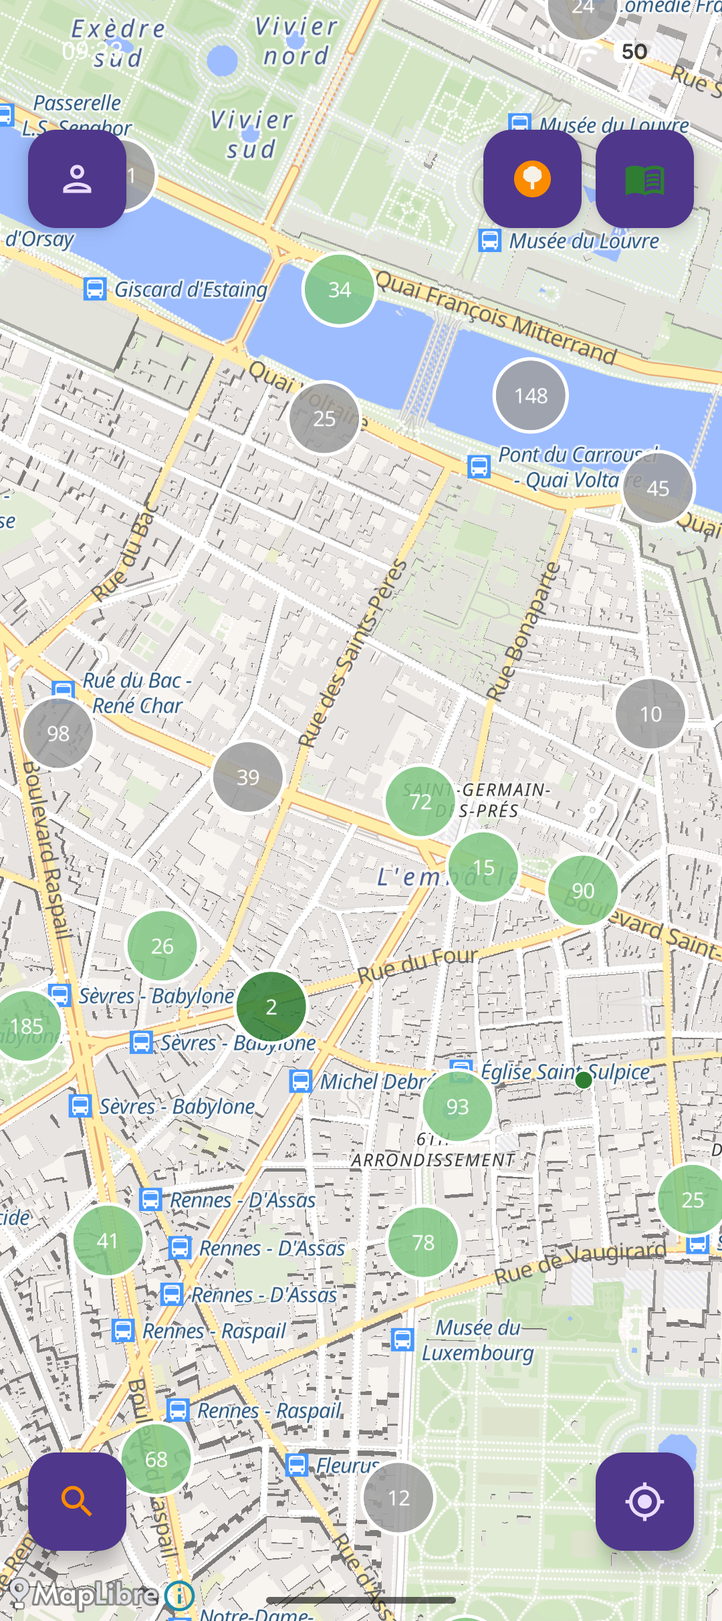
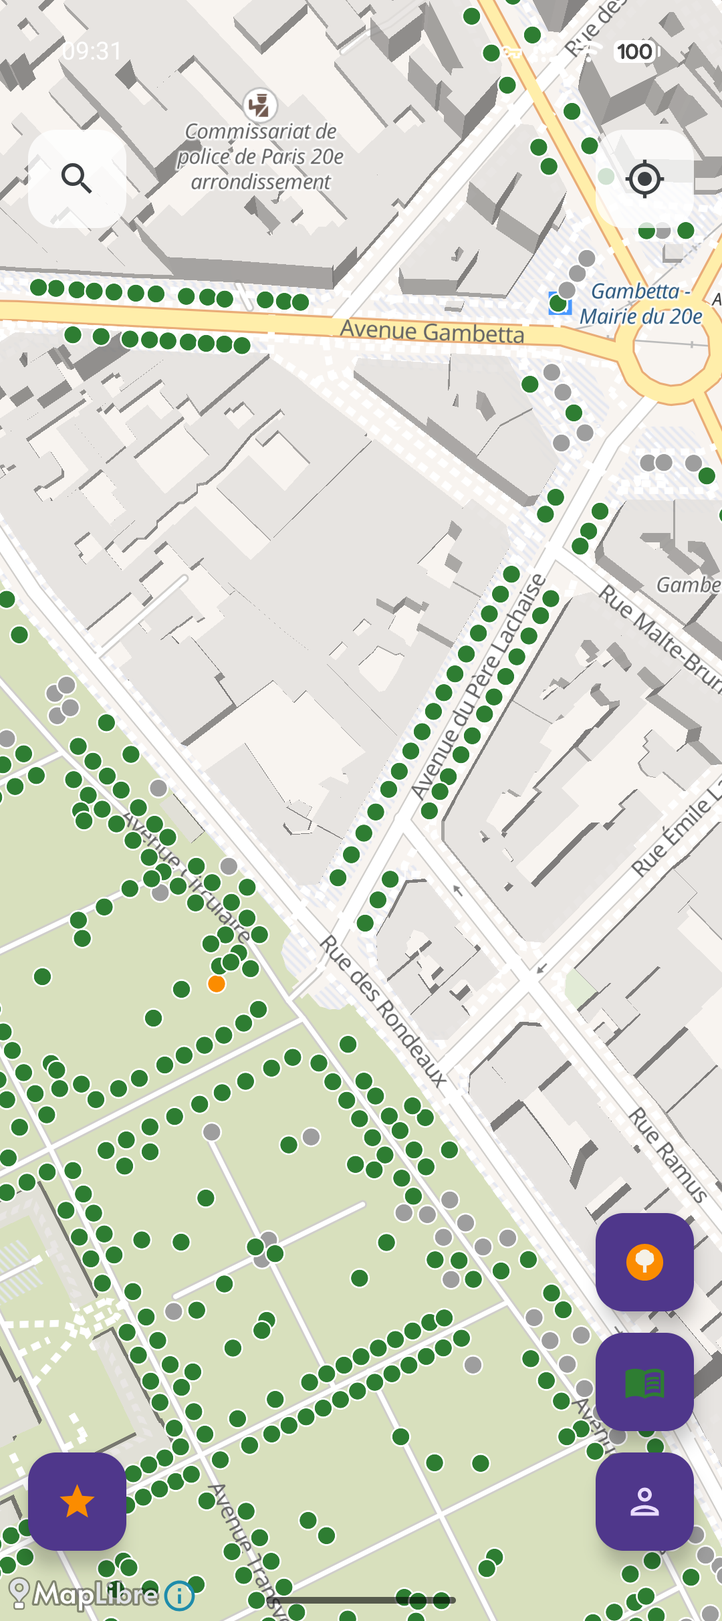
Boussole S7 — Clôture cycle v1.4.0
S7 finalise le cycle Boussole en trois axes.

**Detekt** (3 issues nouvelles + rebaseline ciblé) : extract
`LazyListScope.searchSection(...)` dans `UniversalSearchSheet`
(LongMethod 102 → 76). `SearchData.build()` passe de 3 boucles
`for + buildList + continue` à des chaînes `filter().map().sortedXxx()`
(plus de LoopWithTooManyJumpStatements). `parseArrQuery` refactoré
en cascade `?:` (7 returns → 2). Rebaseline silencieux des 3 IDs
MapScreen suite au signature drift `onGenreClick` ajouté en S2.
Baseline reste pile à 9, DoD ≤ 9 respectée.

**README** : 3 → 6 screenshots (carte, arboretum, espèce,
remarquables, profil, onboarding conservé). Ancien
`03-fiche-arbre.png` retiré.

**Rotation cycle Boussole → v1.4.0** : `versionCode` 13002 →
14000, `versionName` 1.3.2 → 1.4.0. `CHANGELOG.md` promotion
`[Non publié]` → `[1.4.0]` avec rédaction complète des sections
Ajouté/Modifié/Corrigé pour S1-S6 + polish post-test device + S7.
`ROADMAP.md` compresse le cycle en tête de « Cycles livrés
post-1.0 » et laisse un placeholder « Cycle en cours » (Variantes
volontairement non dépilé). `BACKLOG.md` purge les 9 items
`[→Boussole]` livrés ; item « fallback espèces sans Wikipedia »
sorti du cycle et remonté en `[creuser]` avec audit chiffré
(254/784 espèces = 32 % sans summary, mais 7 778/204 364 arbres
= 3.8 % — fallback gratuit dispo via genre-info.summary).

**Build** : ajout `lint { disable += "NullSafeMutableLiveData" }`
[…]

diff --git a/app/src/main/java/app/arbre/ui/map/SearchData.kt b/app/src/main/java/app/arbre/ui/map/SearchData.kt
@@ -51,53 +51,46 @@ fun SearchData.Companion.build(
     arrIndex: ArrSpeciesIndex,
     captured: Set<Int>,
 ): SearchData {
-    val species = buildList {
-        for (entry in speciesIndex.entries()) {
-            if (!entry.isActive) continue
-            if (entry.index !in captured) continue
+    val species = speciesIndex.entries()
+        .filter { it.isActive && it.index in captured }
+        .map { entry ->
             val display = entry.displayNomCommun
             val latin = entry.displayName
-            add(
-                SpeciesSearchItem(
-                    sk = entry.index,
-                    display = display,
-                    latin = latin,
-                    haystack = normalizeQuery("$display $latin"),
-                )
+            SpeciesSearchItem(
+                sk = entry.index,
+                display = display,
+                latin = latin,
+                haystack = normalizeQuery("$display $latin"),
             )
         }
-    }.sortedWith(compareBy({ it.display.lowercase() }, { it.sk }))
+        .sortedWith(compareBy({ it.display.lowercase() }, { it.sk }))
 
-    val genres = buildList {
-        for (g in speciesIndex.allGenres()) {
-            if (!speciesIndex.genreHasAnyCapture(g, captured)) continue
+    val genres = speciesIndex.allGenres()
+        .filter { speciesIndex.genreHasAnyCapture(it, captured) }
+        .map { g ->
             val nomFr = genreInfo.get(g)?.nomFr
             val display = if (nomFr != null) "$g — $nomFr" else g
-            add(
-                GenreSearchItem(
-                    genre = g,
-                    display = display,
-                    haystack = normalizeQuery("$g ${nomFr.orEmpty()}"),
-                )
+            GenreSearchItem(
+                genre = g,
+                display = display,
+                haystack = normalizeQuery("$g ${nomFr.orEmpty()}"),
             )
         }
-    }.sortedBy { it.display.lowercase() }
+        .sortedBy { it.display.lowercase() }
 
-    val arrs = buildList {
-        for (key in arrIndex.keys) {
-            val centroid = arrIndex.centroidOf(key) ?: continue
+    val arrs = arrIndex.keys
+        .mapNotNull { key ->
+            val centroid = arrIndex.centroidOf(key) ?: return@mapNotNull null
             val label = key.label()
-            add(
-                ArrSearchItem(
-                    key = key,
-                    label = label,
-                    lon = centroid.first,
-                    lat = centroid.second,
-                    haystack = normalizeQuery(label),
-                )
+            ArrSearchItem(
+                key = key,
+                label = label,
+                lon = centroid.first,
+                lat = centroid.second,
+                haystack = normalizeQuery(label),
             )
         }
-    }.sortedBy { it.key.sortKey() }
+        .sortedBy { it.key.sortKey() }
 
     return SearchData(species = species, genres = genres, arrs = arrs)
 }
@@ -136,17 +129,15 @@ private val ZIPCODE = Regex("^750(\\d{2})$")
 fun parseArrQuery(query: String): ArrKey? {
     val q = normalizeQuery(query)
     if (q.isEmpty()) return null
-
-    PARIS_NUM.matchEntire(q)?.let { m ->
-        val n = m.groupValues[1].toIntOrNull() ?: return@let
-        if (n in 1..20) return ArrKey.Paris(n)
-    }
-    ZIPCODE.matchEntire(q)?.let { m ->
-        val n = m.groupValues[1].toIntOrNull() ?: return@let
-        if (n in 1..20) return ArrKey.Paris(n)
-    }
-    ORDINALS_FR[q]?.let { return ArrKey.Paris(it) }
-    if ("vincennes" in q) return ArrKey.BoisVincennes
-    if ("boulogne" in q) return ArrKey.BoisBoulogne
-    return null
+    val numericArr = (PARIS_NUM.matchEntire(q) ?: ZIPCODE.matchEntire(q))
+        ?.groupValues?.get(1)
+        ?.toIntOrNull()
+        ?.takeIf { it in 1..20 }
+    return numericArr?.let { ArrKey.Paris(it) }
+        ?: ORDINALS_FR[q]?.let { ArrKey.Paris(it) }
+        ?: when {
+            "vincennes" in q -> ArrKey.BoisVincennes
+            "boulogne" in q -> ArrKey.BoisBoulogne
+            else -> null
+        }
 }

diff --git a/app/src/main/java/app/arbre/ui/map/UniversalSearchSheet.kt b/app/src/main/java/app/arbre/ui/map/UniversalSearchSheet.kt
@@ -8,6 +8,7 @@ import androidx.compose.foundation.layout.fillMaxSize
 import androidx.compose.foundation.layout.fillMaxWidth
 import androidx.compose.foundation.layout.padding
 import androidx.compose.foundation.lazy.LazyColumn
+import androidx.compose.foundation.lazy.LazyListScope
 import androidx.compose.foundation.lazy.items
 import androidx.compose.foundation.text.KeyboardOptions
 import androidx.compose.material.icons.Icons
@@ -112,32 +113,14 @@ fun UniversalSearchSheet(
                     .padding(top = 12.dp)
                     .weight(1f),
             ) {
-                if (filteredSpecies.isNotEmpty()) {
-                    stickyHeader { SectionHeader("Espèces", filteredSpecies.size) }
-                    items(
-                        items = filteredSpecies,
-                        key = { "sp-${it.sk}" },
-                    ) { item ->
-                        SpeciesRow(item, onClick = { onSpeciesTap(item.sk) })
-                    }
+                searchSection("Espèces", filteredSpecies, key = { "sp-${it.sk}" }) {
+                    SpeciesRow(it, onClick = { onSpeciesTap(it.sk) })
                 }
-                if (filteredGenres.isNotEmpty()) {
-                    stickyHeader { SectionHeader("Genres", filteredGenres.size) }
-                    items(
-                        items = filteredGenres,
-                        key = { "g-${it.genre}" },
-                    ) { item ->
-                        GenreRow(item, onClick = { onGenreTap(item.genre) })
-                    }
+                searchSection("Genres", filteredGenres, key = { "g-${it.genre}" }) {
+                    GenreRow(it, onClick = { onGenreTap(it.genre) })
                 }
-                if (filteredArrs.isNotEmpty()) {
-                    stickyHeader { SectionHeader("Arrondissements", filteredArrs.size) }
-                    items(
-                        items = filteredArrs,
-                        key = { "a-${it.label}" },
-                    ) { item ->
-                        ArrRow(item, onClick = { onArrTap(item) })
-                    }
+                searchSection("Arrondissements", filteredArrs, key = { "a-${it.label}" }) {
+                    ArrRow(it, onClick = { onArrTap(it) })
                 }
                 if (filteredSpecies.isEmpty() && filteredGenres.isEmpty() && filteredArrs.isEmpty()) {
                     item {
@@ -166,6 +149,18 @@ fun UniversalSearchSheet(
     LaunchedEffect(Unit) {
         focusRequester.requestFocus()
     }
+}
+
+@OptIn(ExperimentalFoundationApi::class)
+private fun <T : Any> LazyListScope.searchSection(
+    label: String,
+    items: List<T>,
+    key: (T) -> Any,
+    row: @Composable (T) -> Unit,
+) {
+    if (items.isEmpty()) return
+    stickyHeader { SectionHeader(label, items.size) }
+    items(items = items, key = key) { row(it) }
 }
 
 @Composable

diff --git a/ROADMAP.md b/ROADMAP.md
@@ -4,46 +4,7 @@ App perso, pas de calendrier engageant. Single-player, stockage local strict —
 
 ## Cycle en cours
 
-### Boussole — viseur `v1.4.0`
-
-Cycle ouvert le 2026-05-14. Thème : **navigation + lisibilité de la progression**. Un correctif structurel (le critère « arrondissement complété » est aujourd'hui injouable), trois apports inspirés du PWA livré par un admirateur (recherche universelle, réorg FAB, bar chart Profile), une extension du système de badges (paliers Pokédex), et du polish + side-tasks. Aucune migration Room, mais régénération `arr-species.json` (champ `remarquables` + centroids par arr).
-
-Items détaillés dans `BACKLOG.md` (section « Cycle Boussole »).
-
-**S1 — Modèle « arrondissement complété » sur remarquables (structurel)** — Le dénominateur actuel = *toutes* les espèces de l'arr (incluant `sp.`) rend la complétion quasi-impossible. On bascule sur les *arbres remarquables* de l'arr. Conserver « Arrondissements visités » = n'importe quel capture. Touche `tools/build_dataset.py` (ajouter `remarquables` dans `arr-species.json`), `ArrSpeciesIndex.remarquablesOf(arr)`, `BadgeEvaluator.evaluateFamilierArr` (l.78-98), description badge « Familier du Xe » (`Badge.kt` l.169-182), barre `ProgressionCard` (`ProfileScreen.kt` l.494-500), `BadgeEvaluatorTest`. À faire en premier : les sprints S2/S5 dépendent du dataset régénéré. **Voir aussi le bloc « Polish S1 affiné post-test device » plus bas.**
-
-**S2 — Réorganisation des FAB Map** — Layout validé :
-
-```
-┌──────────────────────┐
-│ 🔍              ⊙  │  top
-│                      │
-│         (carte)      │
-│                      │
-│                  🌳  │  bot-end
-│                  📖  │  pile [Remarq, Arbo, Profil]
-│ ★          ●     👤  │
-└──────────────────────┘
-  ★=Chasse        ●=HuntPanel
-```
-
-`MapScreen.kt:717-794`. Conserver `bottomShiftForHunt` et `awaitingFirstFix` pulse (déplacés avec Localiser top-end). Vérifier non-chevauchement pile bottom-end / HuntPanel bottom-center. **🔍 Recherche** et **⊙ Localiser** rendus discrets (`containerColor = surfaceContainerHigh`, `contentColor = onSurfaceVariant`, taille 56 dp conservée — alignés sur la palette utilitaire de `HuntPanel`). Le FAB 🔍 est posé en stub (snackbar « Recherche : bientôt »), le wiring de la sheet arrive en S3.
-
-**S3 — Recherche universelle** — FAB loupe top-start (déjà posé en S2) → bottom-sheet 3 sections, **périmètre minimal** : espèces capturées (FR/latin), genres découverts, arrondissements (parseur `"1"`/`"01"`/`"1er"`/`"75001"`/`"premier"`). Tap espèce → `Routes.species(sk)` ; tap genre → `Routes.genre(...)` ; tap arrondissement → fly-to centroid + close. **Hors périmètre v1.4** : adresse précise, OpenData id, sheet récap arr. Pré-calculer les centroids arr côté Python ; étendre `Routes.MAP` avec query param `flyToArr` (analogue à `pulseArbreId`). Précharger le sheet content (cf. memo `feedback_compose_sheet`). Nouveau composable `ui/map/UniversalSearchSheet.kt`.
-
-**S4 — Bar chart Profile** — Card additionnelle **sous** `ProgressionCard` (ne pas remplacer les 7 barres). **Pencher** : 2 graphes séparés, hebdomadaires, fenêtre 12 semaines glissantes — graphe 1 = captures totales par semaine, graphe 2 = nouvelles découvertes d'espèces par semaine. Compose `Canvas` hand-rolled, zéro dépendance. Bucket par semaine ISO (`WeekFields.ISO`) depuis `CaptureDao.allCaptures()`. **À rediscuter au démarrage du sprint** : fenêtre exacte (8 / 12 / 16 sem), empilés ou tabs, condition de masquage si historique < 2 semaines, couleurs (or vs feuilleClaire).
-
-**S5 — Badges Pokédex progression** — 6 badges statiques binaires : `pokedex_10`, `pokedex_20`, `pokedex_50`, `pokedex_100`, `pokedex_200`, `pokedex_500`. Critère : avoir capturé **toutes** les espèces ayant `pokedexNumber ∈ [1..N]`. Le `pokedexNumber` est déjà calculé côté `build_dataset.py` (ordre décroissant de count, stable entre regénérations) et exposé via `SpeciesEntry.pokedexNumber`. Ajouter à `BadgeCatalog.ALL` ; brancher `evaluatePokedexRange(...)` dans `BadgeEvaluator` (utiliser `effectivelyCapturedSpecies` pour la propagation `sp.`) ; 6 icônes dans `BadgeIcons.kt` (variantes médaille graduée). Pas de migration.
-
-**S6 — Polish chapitres + tip erroné** — (a) Texte fixe « arrondissement » dans titres de chapitres Remarquables/Catalogue (1er-20ème, pas pour les 2 Bois) ; (b) compteur N/M à côté de ces titres (cohérence avec Arboretum par genre) ; (c) tip splash citant « 930 espèces » à corriger — recompter le périmètre exact, ajuster ou retirer.
-
-**Polish UX post-test device** (intercalé entre S6 et S7) — Trois correctifs UX émergés du parcours de validation device : (1) `UtilityFab` (Recherche + Localiser, top de la carte) passe en verre dépoli `White.copy(alpha = 0.78)` + icône asphalte, avec **toutes les élévations à 0** pour neutraliser le tonal overlay Material 3 (sinon mini-carré clair au centre, visible sur container translucide). Palette figée hors thème système car ces FAB survolent toujours la carte claire. (2) `UniversalSearchSheet` content force `fillMaxSize()` + `weight(1f)` sur la `LazyColumn` (au lieu de `heightIn(max = 520.dp)`) — le sheet adopte désormais toujours la hauteur plein écran, indépendamment de la taille du contenu et de la présence de l'IME (avant : ouverture à ~75 % puis re-cadrage à pleine hauteur quand le clavier montait). (3) Source `tools/splash-tips-static.json` alignée sur les compteurs courants (`934 / 784`) + retrait des deux tips supprimés en S6, pour qu'une régénération `build_dataset.py` ne ré-introduise pas la régression. Compromis assumé : auto-focus du champ de recherche = IME visible = 2 back-press pour fermer le sheet (1 ferme l'IME, 1 ferme le sheet), comportement Android natif universel.
-
-**Polish S1 affiné post-test device** — Le pivot S1 portait sur les *espèces* d'arbres remarquables (couverture par sk). Divergent du compteur `N / M` de RemarquablesScreen qui compte les arbres individuels — un 19e à 10/12 arbres pouvait débloquer le badge « Familier du 19e » dès lors que les 9 espèces uniques étaient couvertes. Bascule définitive sur les **ids d'arbres remarquables** : `arr-species.json` émet `remarquable_ids: [...idbase...]` à la place de `remarquables: [...sk...]`, `ArrSpeciesIndex` expose `remarquableArbreIdsOf(key): Set<Long>`, `BadgeEvaluator.evaluateFamilierArr` compare directement des `Set<Long>` (plus de propagation `effectivelyCapturedSpecies`). Aucune migration utilisateur — les badges injustement débloqués se referment au prochain mount du Profil.
-
-**S7 — Side-tasks de clôture** — (a) Revérifier la pertinence d'un texte fallback pour fiches espèces sans Wiki post-Catalogue 1.1.0 : audit `assets/species-info.json`, si ≤ 5% des espèces réellement capturables manquent de texte → fermer `[refusé]`, sinon proposer un fallback ; (b) Screenshots README de 3 à 6, couvrir les nouveaux écrans v1.4 (Map avec FAB Recherche, sheet Recherche, Profile avec bar charts) ; (c) Dette detekt accumulée par S2/S3 : 6 issues à traiter (3× MapScreen suite à l'ajout de `onGenreClick` qui décale la signature des entries baseliné, 1× UniversalSearchSheet `LongMethod`, 2× SearchData `ReturnCount` + `LoopWithTooManyJumpStatements`). Choix à faire : refactorer pour rentrer dans les seuils, ou rebaseliner en assumant la dérive (DoD cycle = `baseline ≤ 9`, rebaseline brut amènerait à 12).
-
-**Definition of done** : tests JVM verts (`BadgeEvaluatorTest` couvre nouveau critère arr + 6 paliers Pokédex), detekt baseline ≤ 9, build release signé local OK, smoke test device GrapheneOS (S1 à S6 visuels), backup/restore sanity check, entrée `CHANGELOG.md [1.4.0]` rédigée, tag `v1.4.0` poussé, rotation cycle Boussole → *Cycles livrés post-1.0*.
+_(à ouvrir — voir « Prochains cycles » ci-dessous pour les candidats)_
 
 ## Prochains cycles
 
@@ -54,6 +15,10 @@ Refonte Arboretum « états/variants ». La colonne `season` (devenue inerte par
 Inspiration : Dave the Diver / Pokédex enrichi. Re-capture du même arbre dans un état nouveau = upgrade visible de l'élément Arboretum, sans inflation artificielle. Migration `MIGRATION_4_5`, backup `schemaVersion = 3`. Badges variantes émergent naturellement. Items détaillés dans `BACKLOG.md`.
 
 ## Cycles livrés post-1.0
+
+### Boussole — `1.4.0` (2026-05-16)
+
+Cycle thématique **navigation + lisibilité de la progression**. Sept sprints + deux passes de polish device. Apports majeurs : Recherche universelle (FAB 🔍 + sheet 3 sections espèces/genres/arrondissements avec parseur ordinaux/zipcodes), histogrammes hebdomadaires Profil au long-press d'une barre `ProgressionCard` (pipeline pur Kotlin, fenêtre ISO bornée 16 sem), 6 badges Pokédex paliers 10/20/50/100/200/500 (libellés gradués), réorganisation FAB Map (🔍 top-start, ⊙ top-end, pile bot-end, ★ Chasse bot-start) en verre dépoli. Correctif structurel : « Familier d'arrondissement » bascule du dénominateur *espèces de l'arr* (injouable) vers les **ids d'arbres remarquables physiques** (aligné sur le compteur `N / M` du Catalogue) — itération en deux temps post-test device. Polish chapitres Remarquables/Catalogue (headerLabel `Xe arrondissement` + compteur `N / M`), splash tips réalignés `934 / 784`, screenshots README portés à 6. Clôture detekt : extract `LazyListScope.searchSection(...)`, refacto `SearchData.build()` en chaînes `filter().map()`, `parseArrQuery` 7 → 2 returns. Baseline reste à 9. Détails dans `CHANGELOG.md` `[1.4.0]`.
 
 ### Reproductibilité — `1.3.2` (2026-05-13)
 

diff --git a/CHANGELOG.md b/CHANGELOG.md
@@ -2,14 +2,36 @@
 
 Format basé sur [Keep a Changelog](https://keepachangelog.com/fr/1.1.0/). Versions [SemVer](https://semver.org/lang/fr/).
 
-## [Non publié] — Cycle Boussole
+## [1.4.0] — 2026-05-16
+
+Cycle *Boussole* — thème **navigation + lisibilité de la progression**. Sept sprints + deux passes de polish post-test device. Un correctif structurel (le critère « arrondissement complété » était injouable), trois apports inspirés du PWA livré par un admirateur (recherche universelle, réorg FAB Map, histogrammes Profil sur long-press), une extension du système de badges (6 paliers Pokédex), un polish chapitres + tips, et une clôture detekt + screenshots README. Aucune migration Room, régénération `arr-species.json` (ajout `remarquable_ids` + centroids par arr).
+
+### Ajouté
+
+- **Recherche universelle** (S3) : FAB loupe top-start sur la carte → `ModalBottomSheet` 3 sections (espèces capturées, genres découverts, 22 arrondissements). Tap espèce → fiche-espèce ; tap genre → fiche-genre ; tap arrondissement → fly-to centroïde z13 700 ms via `MapViewModel.pendingArrFlyTo` (pas de query param, pas de remount `MapScreen`, `lastCamera` préservée). Recherche insensible casse + accents (NFD + strip diacritiques + lowercase pré-cuit dans `SearchData`). `parseArrQuery` accepte chiffres, ordinaux abrégés (`1er`/`2e`/`4ème`), ordinaux français littéraux (`premier`/`deuxième`… `vingtième`), codes postaux `750NN`, et mots-clés `vincennes`/`boulogne`.
+- **Histogrammes Profil au long-press** (S4) : long-press sur une barre de `ProgressionCard` ouvre un `ModalBottomSheet` avec l'histogramme hebdomadaire des nouveautés liées à la métrique (7 barres graphables, fenêtre ISO adaptative bornée à 16 sem). Pipeline pur Kotlin (`ProgressionHistory.kt`, IsoWeek Europe/Paris, dispatch par metric ; les 6 métriques triviales bucketisent `min(ts) groupBy clé`, « Arbres déverrouillés » rejoue les captures via snapshots cumulatifs). Histogramme Canvas hand-rolled (`arbresColors.or`, semaine courante dimmer 0.5), tooltip-on-tap auto-dismiss 2,5 s.
+- **6 badges Pokédex binaires** (S5) : `pokedex_{10,20,50,100,200,500}`, catégorie Découverte. Palier N débloqué dès que toutes les espèces actives ayant `pokedexNumber ∈ [1..N]` sont capturées hors remarquables (alignement Catalogue/Arboretum par fréquence). Libellés gradués *Promeneur curieux → Apprenti botaniste → Botaniste → Herboriste → Naturaliste → Dendrologue*. Icône commune AutoMirrored `MenuBook` + seuil chiffré rendu sous l'icône via nouveau `BadgeVisual.VectorWithBadge`.
+- **Réorganisation FAB Map** (S2) : layout final = 🔍 Recherche top-start, ⊙ Localiser top-end, pile [Remarquables, Arboretum, Profil] bottom-end, ★ Chasse bottom-start. Recherche + Localiser passent en palette **verre dépoli** (`White.copy(alpha = 0.78)` + icône asphalte `Color(0xFF3C4043)`, palette figée hors thème car ces FAB survolent toujours la carte claire OpenFreeMap), élévations strictement à 0 sur tous les états pour neutraliser le tonal overlay Material 3.
+- **Polish chapitres Remarquables / Catalogue** (S6) : `ArrKey.headerLabel()` rend `"1er arrondissement"` / `"5e arrondissement"` sur les sticky headers (Bois et "Hors Paris" inchangés, `label()` court préservé). `ArrondissementHeader` passe en `Row` avec compteur `N / M` aligné droite (`bodyMedium` / `onSurfaceVariant`), cohérent avec `GenreChapterHeader` de l'Arboretum.
+- 6 nouveaux screenshots `docs/screenshots/0{1-6}-*.png` couvrent l'app dans son ensemble (onboarding, carte, arboretum, fiche-espèce, remarquables, profil). `README.md` mis à jour.
+- Splash tip `app.progress_history` (statique + asset embarqué + `docs/tips/index.html` régénéré) pour la découvrabilité des histogrammes.
+
+### Modifié
+
+- **Critère « Familier d'arrondissement » / « Arrondissements complétés »** (S1 + Polish S1 affiné post-test device) : le dénominateur passe de **toutes les espèces de l'arr** (50-150 par arr, de facto injouable) à **chaque arbre remarquable physique** de l'arr. Itération en deux temps : (1) S1 a basculé sur les *espèces* d'arbres remarquables (`remarquables: [...sk...]`), (2) Polish post-test a basculé sur les **ids d'arbres** (`remarquable_ids: [...idbase...]`) pour aligner sur le compteur `N / M` du Catalogue Remarquables qui, lui, compte des arbres individuels — sur le 19e (12 arbres = 9 espèces uniques), 10 captures débloquaient le badge alors que 2 arbres restaient à voir. `ArrSpeciesIndex.remarquableArbreIdsOf(key): Set<Long>` ; `BadgeEvaluator.evaluateFamilierArr` compare directement des `Set<Long>` d'ids, sans propagation espèce/genre. 2 arr sans aucun arbre remarquable (2e, 6e) exclus du dénominateur « Complétés » (20 au lieu de 22). « Visités » garde son dénominateur 22. Aucune migration utilisateur : les badges injustement débloqués se referment au prochain mount du Profil.
+- Splash tips compteurs alignés : `intro.species_count` 782 → 784, `app.catalogue` 930 / 782 → 934 / 784. Suppression de `player.species_progression` et `player.species_share` (placeholder `{speciesCount}` sans dénominateur stable, retrait plutôt que rafistolage). `tools/splash-tips-static.json` réaligné à la source pour qu'une régénération `build_dataset.py` ne ré-introduise pas la régression. 229 → 227 tips.
+- `UniversalSearchSheet.kt` : helper `LazyListScope.searchSection(label, items, key, row)` factorise les 3 blocs `stickyHeader { … }; items { … }` (Espèces/Genres/Arrondissements). Fonction principale passe de 102 à ~76 lignes.
+- `SearchData.kt` : `build()` remplace 3 boucles `for + buildList + continue` par des chaînes `filter().map().sortedXxx()`. `parseArrQuery` refactorée en chaîne `?:` (7 returns → 2), comportement strictement préservé.
+- `app/detekt-baseline.xml` : 3 IDs `MapScreen` mis à jour pour intégrer `onGenreClick: (String) -> Unit = {}` (signature drift S2). Baseline reste à 9 exactement, DoD `≤ 9` respectée.
 
 ### Corrigé
 
-- **Familier d'arrondissement / Arrondissements complétés** : le critère exigeait la couverture de toutes les *espèces* d'arbres remarquables de l'arr (pivot S1) — divergence avec le compteur `N / M` du Catalogue Remarquables qui, lui, compte des **arbres individuels**. Sur le 19e (12 arbres = 9 espèces uniques), 10 captures suffisaient à débloquer le badge alors que 2 arbres restaient à voir. Le critère bascule sur la **capture de chaque arbre remarquable physique** : `arr-species.json` émet désormais `remarquable_ids: [...idbase...]` à la place de `remarquables: [...sk...]` ; `BadgeEvaluator.evaluateFamilierArr` compare directement des `Set<Long>` d'ids, sans propagation espèce/genre. Effet de bord propre : la sur-permissivité `(Quercus, sp.)` → tout chêne (visible sur les 4e et 15e via `Tamarix sp.` / `Alnus sp.`) disparaît. Aucune migration utilisateur — les badges injustement débloqués se referment au prochain mount du Profil, ré-évalués en sortie d'écran.
-- **FAB Recherche / Localiser top de la carte** : le rendu `surfaceContainerHigh` thème-aware donnait deux pastilles gris quasi-noires sur la carte claire OpenFreeMap en thème dark (palette résolue contre le thème app, pas contre la chromie de la carte). Bascule sur du **verre dépoli** `White.copy(alpha = 0.78)` + icône asphalte `Color(0xFF3C4043)`, palette figée hors thème. Élévations strictement à 0 sur tous les états pour éviter le `surfaceColorAtElevation()` qui dessinait un mini-carré clair au centre du FAB par-dessus le container translucide.
-- **Sheet Recherche universelle plein écran systématique** : le sheet adoptait la hauteur de son contenu (`OutlinedTextField` + `LazyColumn` bornée à 520 dp), soit ~75 % de l'écran sur un téléphone moderne — perçu comme une « ouverture à 3/4 » avec un re-cadrage quand l'IME montait/redescendait. Le `Column` conteneur passe en `fillMaxSize()`, la `LazyColumn` en `weight(1f)` (suppression du `heightIn(max = 520.dp)`) : le sheet est désormais toujours plein écran, IME ou pas.
-- **Source `tools/splash-tips-static.json` désynchronisée** : trois tips citaient encore `930 / 782 espèces` (chiffres pré-`v1.3.2`) et deux tips supprimés en S6 (`player.species_progression`, `player.species_share`) étaient toujours dans la source — chaque régénération `build_dataset.py` ré-introduisait silencieusement la régression. Source réalignée sur `934 / 784` + tips retirés à la source.
+- **Sheet Recherche universelle plein écran systématique** (Polish S3 post-test device) : le sheet adoptait la hauteur de son contenu (`OutlinedTextField` + `LazyColumn` bornée à 520 dp), soit ~75 % de l'écran sur un téléphone moderne — perçu comme une « ouverture à 3/4 » avec un re-cadrage quand l'IME montait/redescendait. Le `Column` conteneur passe en `fillMaxSize()`, la `LazyColumn` en `weight(1f)` (suppression du `heightIn(max = 520.dp)`) : le sheet est désormais toujours plein écran, IME ou pas. Compromis assumé sur l'IME visible au mount = 2 back-press pour fermer (comportement Android natif universel).
+- **FAB Recherche / Localiser sur carte claire** (Polish S2 post-test device) : le rendu initial `surfaceContainerHigh` thème-aware donnait deux pastilles gris quasi-noires sur la carte claire OpenFreeMap en thème dark (palette résolue contre le thème app, pas contre la chromie de la carte). Bascule sur **verre dépoli** détaillée ci-dessus.
+
+### Privacy
+
+- Inchangé : 100 % local, aucune télémétrie, aucun service tiers au runtime.
 
 ## [1.3.2] — 2026-05-13
 

diff --git a/BACKLOG.md b/BACKLOG.md
@@ -15,20 +15,7 @@ Triage en lot au début de chaque cycle. Process complet dans `CLAUDE.md` (*Work
 
 ## À trier
 
-_(vide — items absorbés par le cycle Boussole le 2026-05-14)_
-
-## Cycle Boussole
-
-- [→Boussole] Pivoter barre « Arrondissements complétés » + badges `familier_arr_*` sur le dénominateur remarquables de l'arr (plus toutes les espèces). « Arrondissements visités » inchangé (n'importe quel capture). (user:moi, 2026-05-14)
-- [→Boussole] Recherche universelle, FAB loupe top-start → sheet 3 sections : espèces capturées (FR/latin), genres découverts, arrondissements (parseur `"1"`/`"01"`/`"1er"`/`"75001"`/`"premier"`). Tap → fly-to centroid pour arr / fiche pour espèce/genre. Hors périmètre : adresse précise, OpenData id, sheet récap arr. Centroids arr pré-calculés côté Python. (pwa:livraison-dev-externe, 2026-05-13 ; cadré 2026-05-14)
-- [→Boussole] Réorg FAB Map : top-start 🔍 Recherche, top-end ⊙ Localiser, bottom-end pile [Remarquables, Arboretum, Profil] (bas-en-haut), bottom-start ★ Chasse inchangé. (pwa:livraison-dev-externe, 2026-05-13 ; cadré 2026-05-14)
-- [→Boussole] Bar chart Profile : Card additionnelle sous `ProgressionCard` (pas en remplacement des 7 barres). Penchant à confirmer au démarrage : 2 graphes séparés hebdo, fenêtre 12 sem — captures totales + nouvelles découvertes d'espèces. (pwa:livraison-dev-externe, 2026-05-13 ; cadré 2026-05-14 ; à rediscuter en début de sprint)
-- [→Boussole] 6 badges Pokédex binaires `pokedex_{10,20,50,100,200,500}` : avoir capturé toutes les espèces ayant `pokedexNumber ∈ [1..N]`. (user:moi, 2026-05-14)
-- [→Boussole] Texte fixe « arrondissement » dans titres de chapitres Remarquables/Catalogue (1er-20ème, pas pour les Bois). (user:pote, 2026-05-14)
-- [→Boussole] Compteur N/M à côté des titres de chapitres Remarquables/Catalogue (cohérence Arboretum par genre). (user:pote, 2026-05-14)
-- [→Boussole] Fix tip splash citant « 930 espèces » — chiffre obsolète vs dataset actuel (784 identifiées / 934 catalogue / 204 genres / 217 264 arbres / 183 remarquables). Vérifier le périmètre exact à citer. (user:moi, 2026-05-14)
-- [→Boussole] Revérifier le besoin d'un texte fallback pour fiches espèces sans Wiki post-Catalogue 1.1.0. Si ≤ 5% des espèces capturables manquent → fermer `[refusé]`. (audit-B, 2026-05-06 ; rapatrié 2026-05-14)
-- [→Boussole] Étendre screenshots README de 3 à 6 (nouveau layout Map, sheet Recherche, Profile avec bar charts). (audit#17, 2026-05-06 ; rapatrié 2026-05-14)
+_(vide — cycle Boussole clos 2026-05-16, livré en v1.4.0)_
 
 ## Cycle Variantes
 
@@ -40,6 +27,7 @@ _(vide — items absorbés par le cycle Boussole le 2026-05-14)_
 
 ## À creuser
 
+- [creuser] Texte fallback pour fiches espèces sans Wikipedia. Audit S7 (2026-05-16) : **254/784 espèces identifiées (32 %) sans `summary`**, mais ne couvrent que **7 778/204 364 arbres (3.8 %)** — quasi exclusivement des hybrides/cultivars/sous-espèces (Tilia x europaea, Pinus nigra subsp. nigra, Gleditsia triacanthos f. Inermis, x Cupressocyparis leylandii…). Fallback gratuit dispo via `genre-info.json.summary` (texte Wikipedia du genre, déjà cuit). Lecture pondérée par arbres = sous le seuil ≤ 5 %, lecture par espèce = bien au-dessus — à trancher dans un cycle futur si la friction utilisateur devient sensible. (audit-B 2026-05-06 ; ré-audité 2026-05-16 hors-cycle Boussole)
 - [creuser] Quêtes hebdomadaires locales, opt-in, sans push (audit V2#3, 2026-05-06 ; déplacé depuis Endgame 2026-05-12 quand le cycle a été dissous)
 - [creuser] Résidu post-cycle Catalogue : 11 entrées résiduelles avec `nv == binôme nu` et count ≤ 2 (post-fil-rouge S10), botaniquement douteuses — `Ehretia macrophylla`, `Sophora flavescens`, `Betula occidentalis`, `Crataegus japonicum`, `Crataegus baccata`, `Celtis cerasifera`, `Carpinus carpinifolia`, `Phellodendron japonicum`, `Zanthoxylum bungei`, `Alnus formosana`, `Brucea javanica`. Peut-être réelles mais rares à Paris, peut-être saisies erronées. Demandent une recherche botanique pour trancher keep / rebinder (claude:audit-S6, 2026-05-11 ; réduit de 29→11 au S10)
 - [creuser] WelcomeScreen pas lu, intro depuis la carte (user:F&F + user:moi 2026-05-07 : pas prio mais à reconsidérer post-Photos)

diff --git a/README.md b/README.md
@@ -9,7 +9,10 @@ App Android pour partir à la chasse aux arbres remarquables de Paris, collectio
 <p align="center">
   <img src="docs/screenshots/01-onboarding.png" width="240" alt="Écran d'accueil"/>
   <img src="docs/screenshots/02-carte.png" width="240" alt="Carte des arbres parisiens"/>
-  <img src="docs/screenshots/03-fiche-arbre.png" width="240" alt="Fiche d'un arbre capturé"/>
+  <img src="docs/screenshots/03-arboretum.png" width="240" alt="Catalogue Arboretum"/>
+  <img src="docs/screenshots/04-espece.png" width="240" alt="Fiche espèce"/>
+  <img src="docs/screenshots/05-remarquables.png" width="240" alt="Catalogue Remarquables"/>
+  <img src="docs/screenshots/06-profil.png" width="240" alt="Profil et progression"/>
 </p>
 
 ## Ce que c'est
